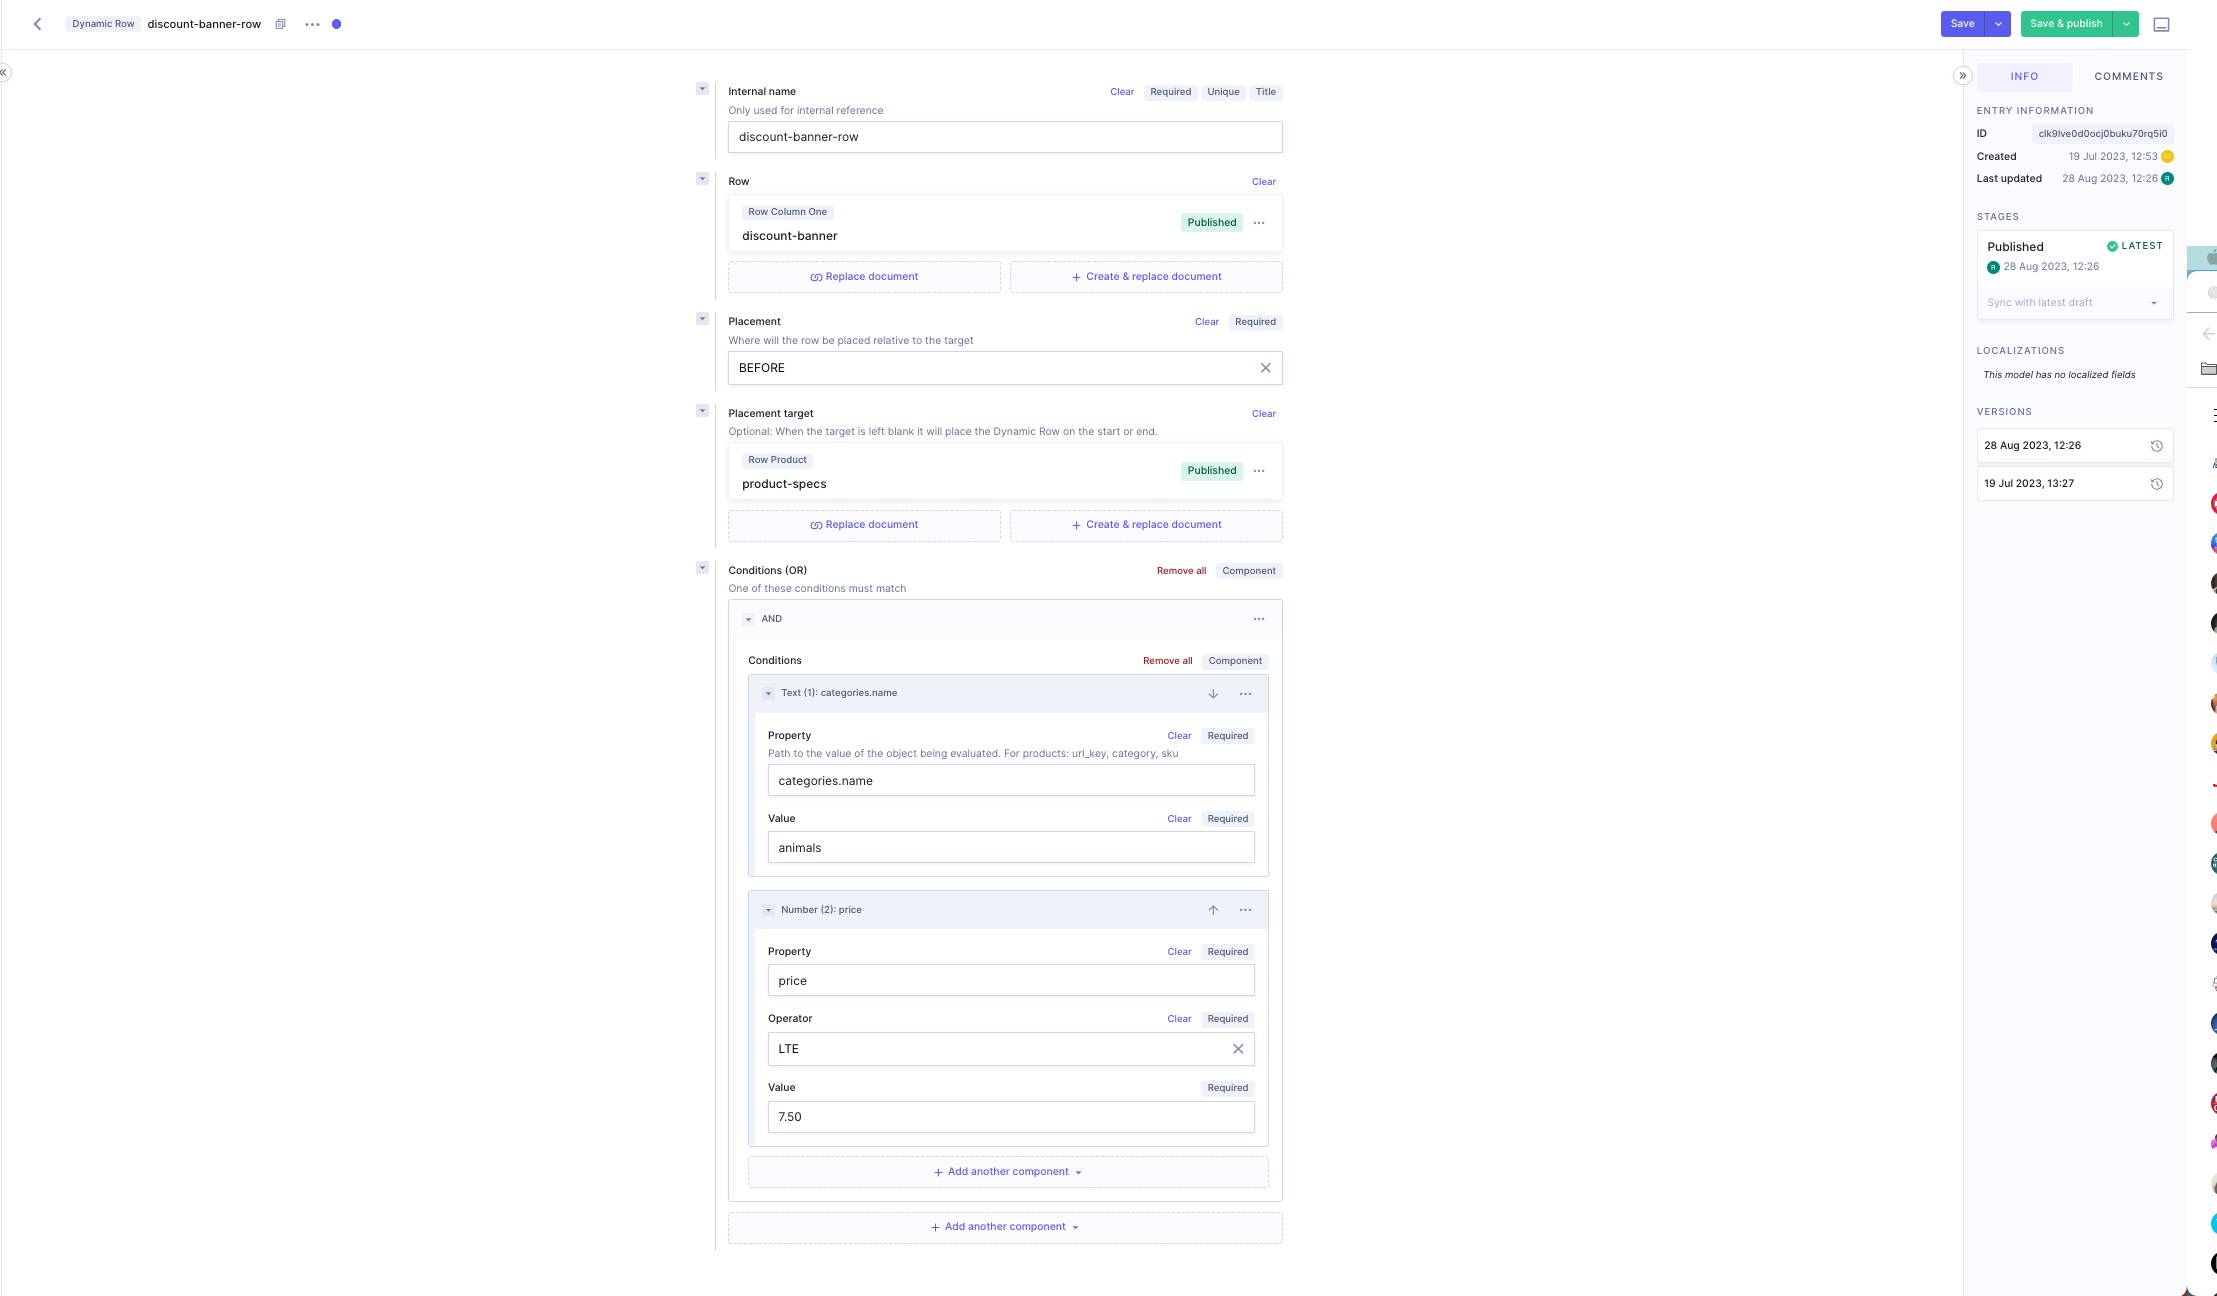
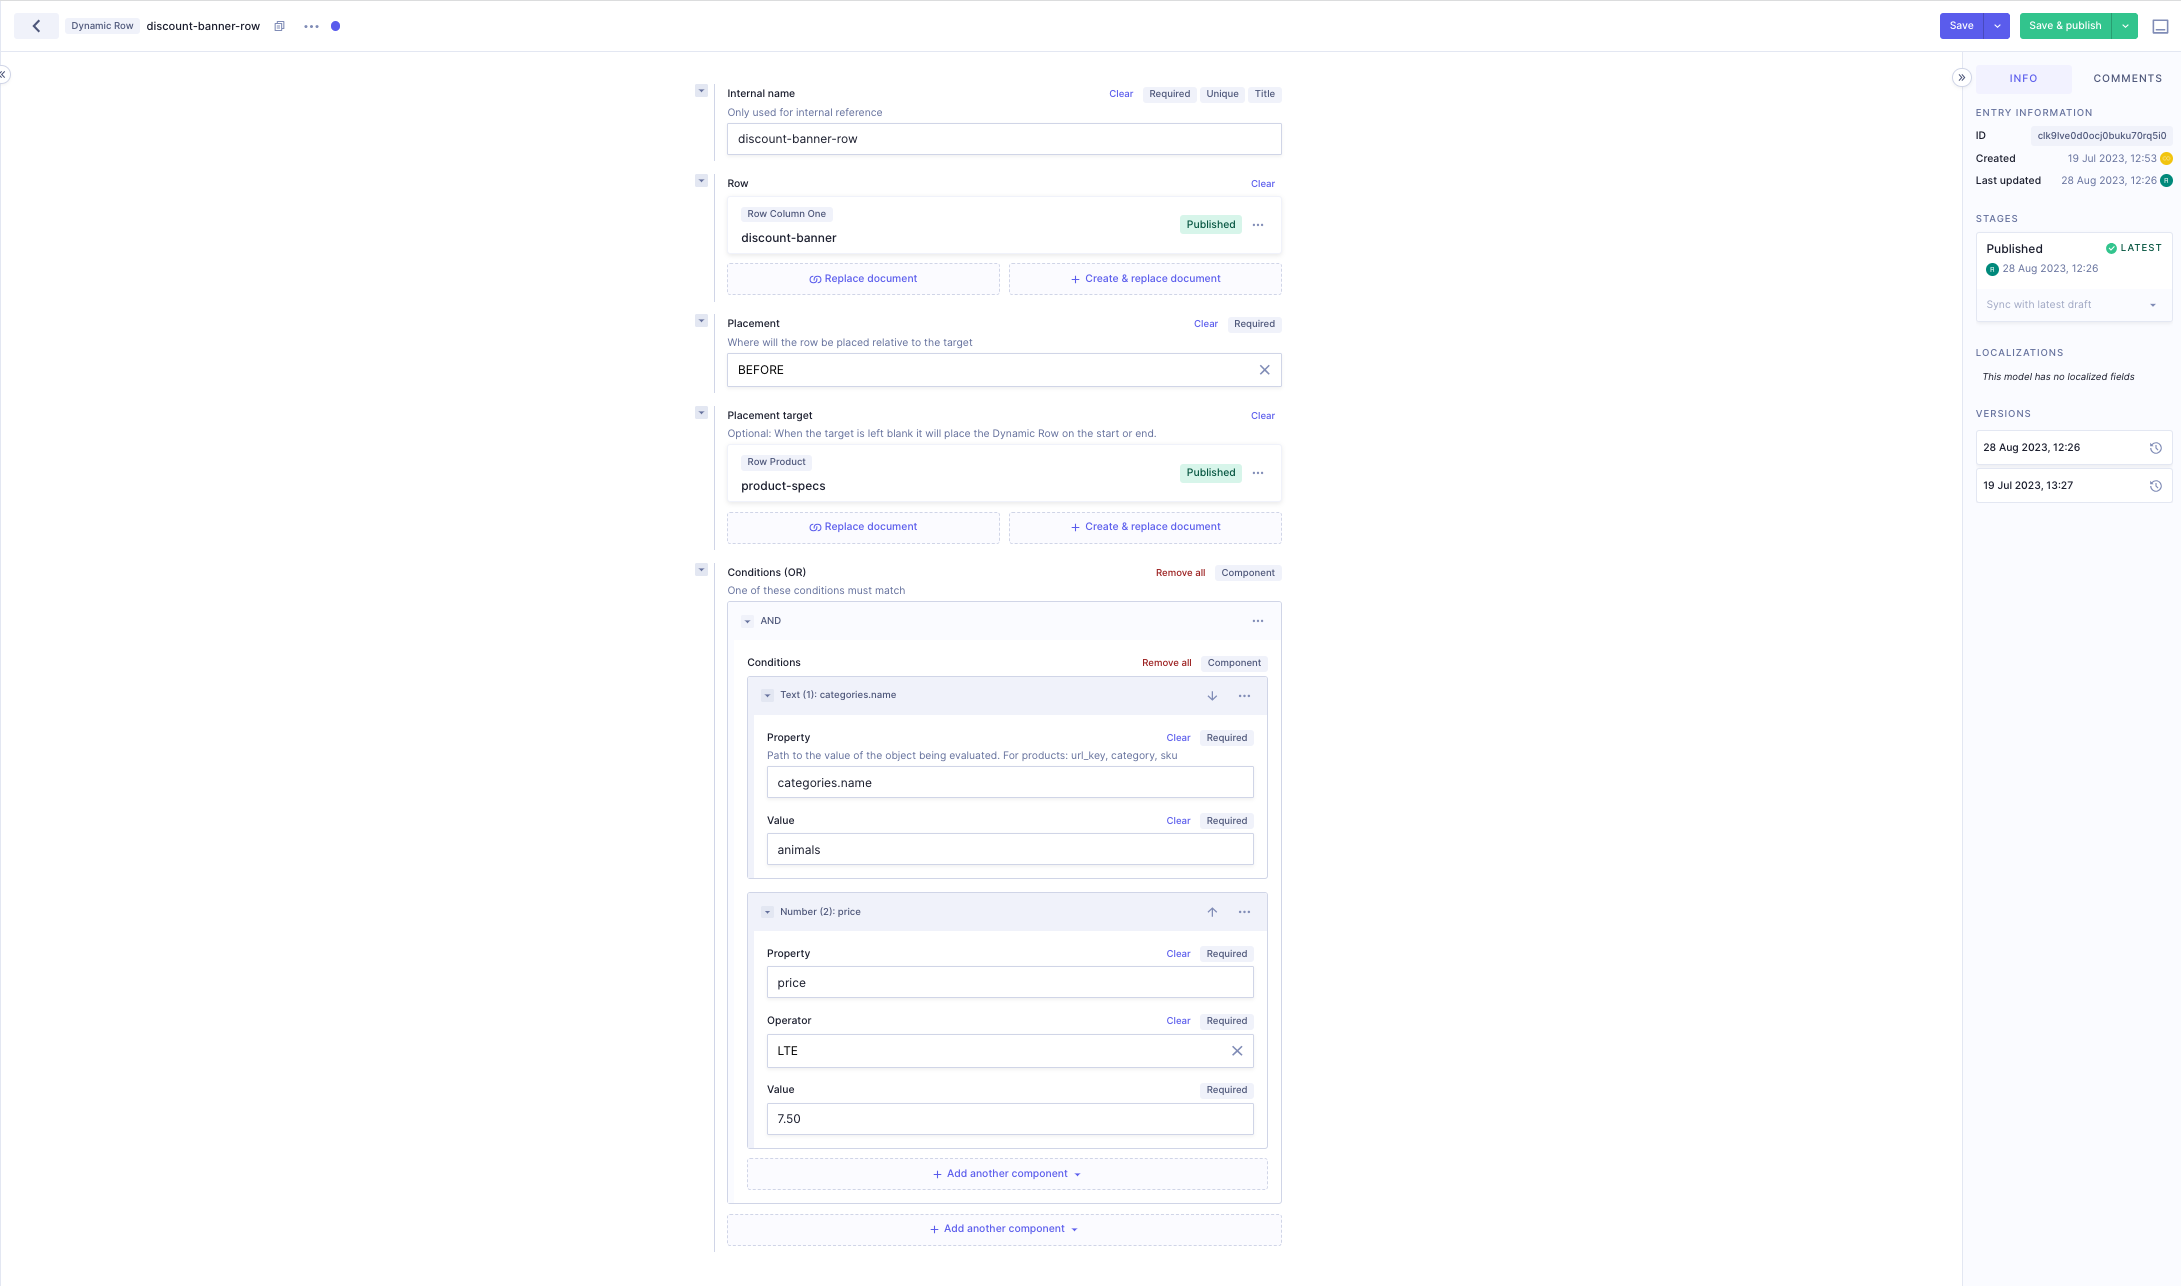
[GCOM-1211] better imgs

diff --git a/docs/hygraph/dynamic-rows.md b/docs/hygraph/dynamic-rows.md
@@ -109,4 +109,4 @@ The result is as follows:
 ![Dynamic row fields](dynamic-row-fields.png)
 
 The Dynamic Row should now be injected on all the pages whose properties match
-the conditions.
+the conditions. ![Alt text](image.png)
